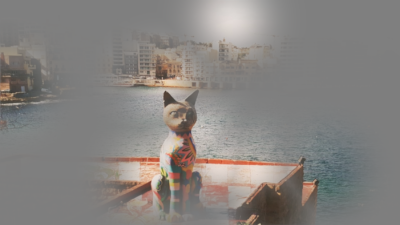
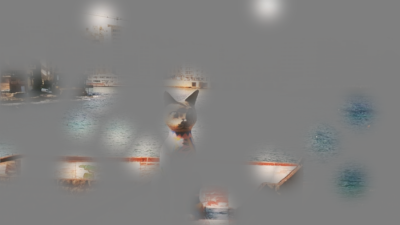
reduce sigma in example

diff --git a/examples.py b/examples.py
@@ -46,9 +46,9 @@ Image.fromarray(a_arr).save(op.join('examples', 'a2_locs.png'))
 # %% Example 4 - cat
 
 cat = Image.open(op.join('img', 'cat.png'))
-cat1 = bubbles.bubbles_mask(im=cat, sigma=np.repeat(25, 10), bg=127)[0]
-cat2 = bubbles.bubbles_mask(im=cat, sigma=np.repeat(25, 10), bg=0)[0]
-cat3 = bubbles.bubbles_mask(im=cat, sigma=np.repeat(25, 10), bg=[127, 0, 127])[0]
+cat1 = bubbles.bubbles_mask(im=cat, sigma=np.repeat(10, 20), bg=127)[0]
+cat2 = bubbles.bubbles_mask(im=cat, sigma=np.repeat(10, 20), bg=0)[0]
+cat3 = bubbles.bubbles_mask(im=cat, sigma=np.repeat(10, 20), bg=[127, 0, 127])[0]
 
 cat1.save(op.join('examples', 'cat1.png'))
 cat2.save(op.join('examples', 'cat2.png'))

diff --git a/README.md b/README.md
@@ -122,9 +122,9 @@ Typical stimuli using the Bubbles technique use artificial stimuli on grey backg
 ```python
 cat = Image.open(op.join('img', 'cat.jpg'))
 
-cat1 = bubbles.bubbles_mask(im=cat, sigma=np.repeat(25, 10), bg=127)[0]
-cat2 = bubbles.bubbles_mask(im=cat, sigma=np.repeat(25, 10), bg=0)[0]
-cat3 = bubbles.bubbles_mask(im=cat, sigma=np.repeat(25, 10), bg=[127, 0, 127])[0]
+cat1 = bubbles.bubbles_mask(im=cat, sigma=np.repeat(10, 20), bg=127)[0]
+cat2 = bubbles.bubbles_mask(im=cat, sigma=np.repeat(10, 20), bg=0)[0]
+cat3 = bubbles.bubbles_mask(im=cat, sigma=np.repeat(10, 20), bg=[127, 0, 55])[0]
 
 cat.show(); cat1.show(); cat2.show(); cat3.show()
 ```
